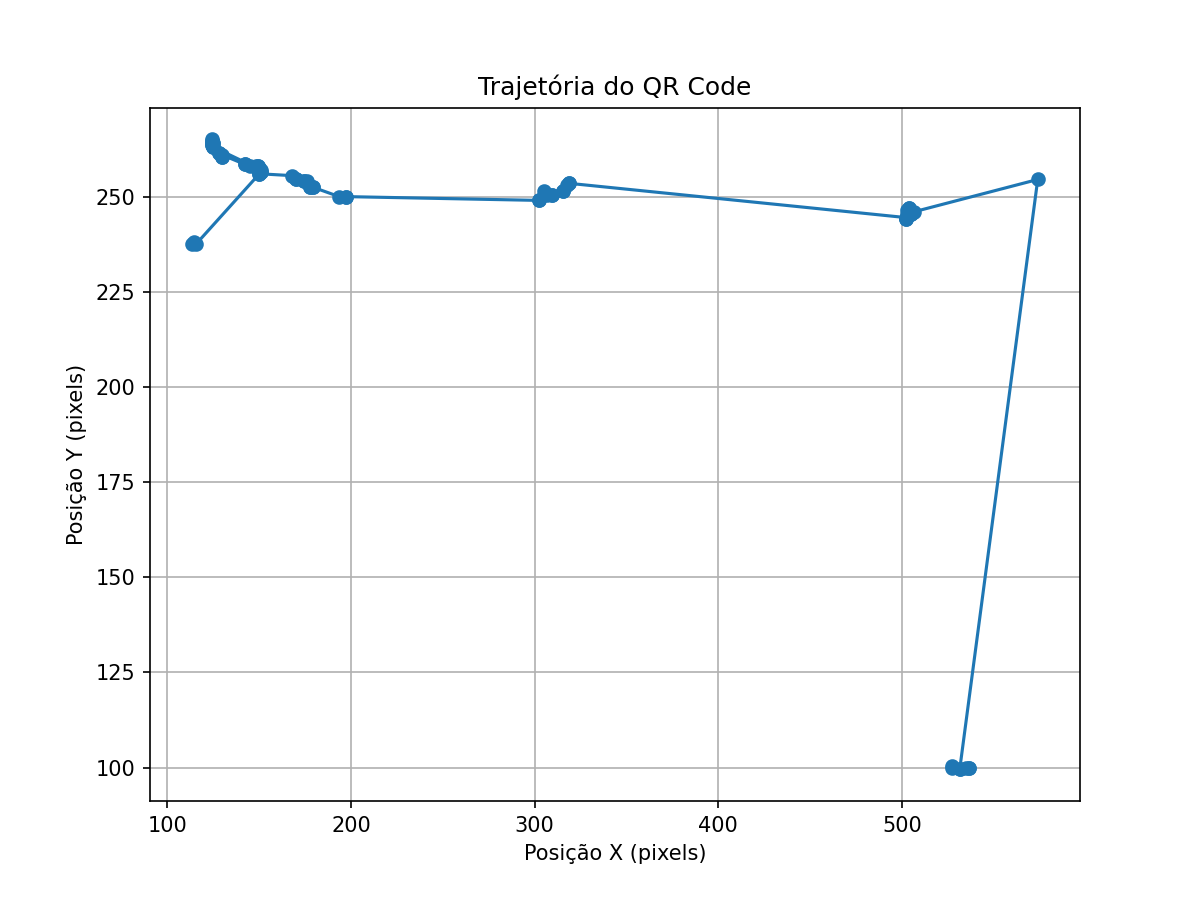
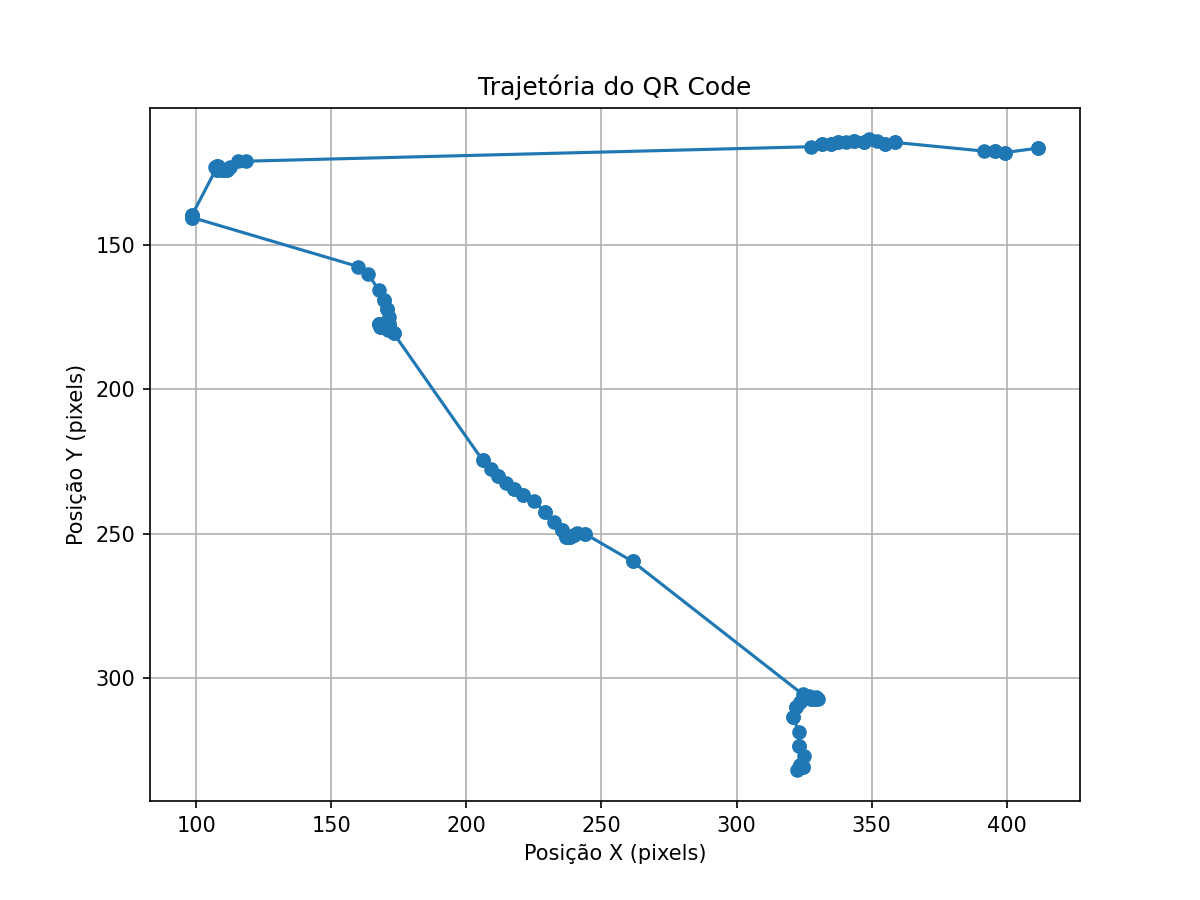
Inveter o Y axis

diff --git a/main.py b/main.py
@@ -6,9 +6,9 @@ import matplotlib.pyplot as plt
 
 cap = cv2.VideoCapture(0)
 
-positions = []  # Armazena (timestamp, x_centro, y_centro)
+positions = []
 
-print("Pressione 'q' para sair.")
+print("press 'q' para sair")
 
 while True:
     ret, frame = cap.read()
@@ -16,21 +16,16 @@ while True:
         print("Falha na captura de vídeo.")
         break
 
-    # Detecta QR Codes no frame atual
     result = bar.decode(frame)
     
-    # Se detectou pelo menos um QR
     for data in result:
         x, y, w, h = data.rect
-        # Calcula o centro do QR Code
         x_center = x + w/2
         y_center = y + h/2
         
-        # Desenha retângulo e marca o centro
         cv2.rectangle(frame, (x, y), (x + w, y + h), (0,255,0), 2)
         cv2.circle(frame, (int(x_center), int(y_center)), 5, (0,0,255), -1)
 
-        # Registra a posição e tempo
         timestamp = time.time()
         positions.append((timestamp, x_center, y_center))
 
@@ -42,20 +37,18 @@ while True:
 cap.release()
 cv2.destroyAllWindows()
 
-# Após fechar, plotamos a trajetória
 if positions:
-    # Extrai listas separadas de tempo, X e Y
     times = [p[0] for p in positions]
     xs = [p[1] for p in positions]
     ys = [p[2] for p in positions]
-    
     plt.figure(figsize=(8,6))
-    plt.title("Trajetória do QR Code")
+    plt.title("trajetória do QR Code")
     plt.xlabel("Posição X (pixels)")
     plt.ylabel("Posição Y (pixels)")
     plt.plot(xs, ys, marker='o')
     plt.grid(True)
+    plt.gca().invert_yaxis()
     plt.savefig('trajetoria_qr.png', dpi=150)
     plt.show()
 else:
-    print("Nenhum dado de posição foi registrado.")
+    print("Nenhum dado de posição foi registrado")
